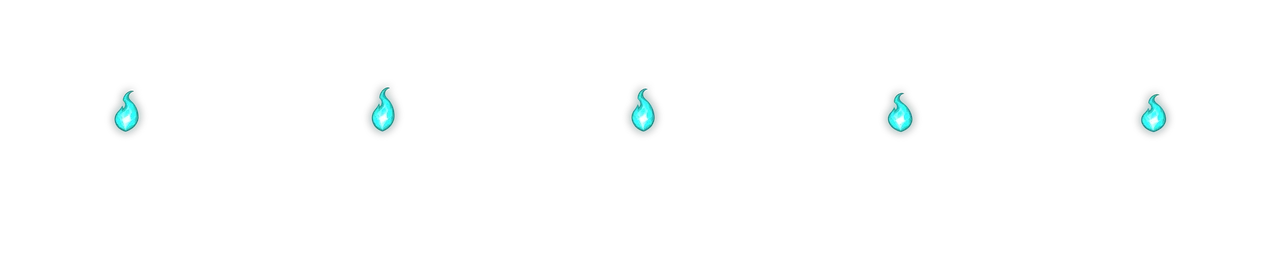
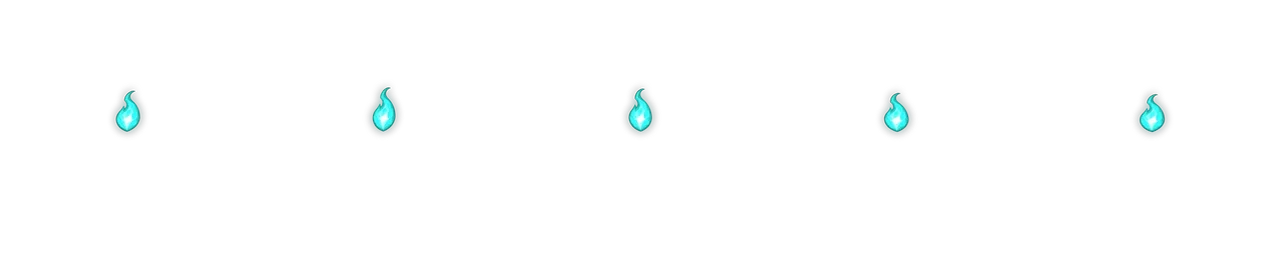
fix(fundador): chama do Cristal Fundador centrada nos 5 quadros (arte por centro de massa + steps(5) no CSS)
Causa raiz do deslocamento: steps(4, jump-none) numa folha de 5 quadros caia em 33%/67% (fracoes de celula).

diff --git a/src/index.css b/src/index.css
@@ -2789,8 +2789,8 @@ span.sm2-potion-icon[data-prato-art] { font-size: 120px; } /* emoji do prato sem
 .sm-decor-brasa { position: absolute; left: 42%; top: 66%; width: 16%; aspect-ratio: 2; border-radius: 50%; background: radial-gradient(closest-side, hsl(176 80% 50% / .5), transparent); opacity: 0; transition: opacity 1.2s ease; }
 .sm-decor-brasa[data-on] { opacity: .55; animation: sm-decor-brasa-pulso 4.5s ease-in-out infinite; }
 @keyframes sm-decor-brasa-pulso { 50% { opacity: .3; } }
-/* Fogo turquesa do Cristal Fundador: folha de N quadros lado a lado sobre a arte; `steps(N-1, jump-none)` mostra os N quadros (0%..100%). Reduzido = quadro 1. */
-.sm-decor-chama { position: absolute; inset: 0; background-repeat: no-repeat; background-position: 0 0; image-rendering: pixelated; animation: sm-decor-chama-quadros .7s steps(4, jump-none) infinite; }
+/* Fogo turquesa do Cristal Fundador: folha de N quadros lado a lado sobre a arte; `steps(N, jump-none)` mostra os N quadros em 0%, 25%, 50%, 75%, 100% (com N-1 os quadros caíam em frações de célula e a chama saltava para os lados; corrigido 24/11/2026). Reduzido = quadro 1. */
+.sm-decor-chama { position: absolute; inset: 0; background-repeat: no-repeat; background-position: 0 0; image-rendering: pixelated; animation: sm-decor-chama-quadros .7s steps(5, jump-none) infinite; }
 @keyframes sm-decor-chama-quadros { to { background-position: 100% 0; } }
 /* Tela do fliperama: 41×40 px da arte em (70,44). */
 .sm-decor-tela { position: absolute; left: 41.7%; top: 26.2%; width: 24.4%; height: 23.8%; image-rendering: pixelated; border-radius: 2px; opacity: .92; }

diff --git a/src/components/PetStageDecor.cristalFundador.render.test.tsx b/src/components/PetStageDecor.cristalFundador.render.test.tsx
@@ -61,7 +61,8 @@ describe('Cristal Fundador', () => {
     expect(f.getAttribute('data-quadros')).toBe('5');
     expect(f.style.backgroundSize).toBe('500% 100%');
     const css = readFileSync('src/index.css', 'utf8');
-    expect(css).toMatch(/\.sm-decor-chama\s*\{[^}]*steps\(4, jump-none\)/);
+    expect(css).toMatch(/\.sm-decor-chama\s*\{[^}]*steps\(5, jump-none\)/);
+    // posições 0/25/50/75/100%: cada quadro inteiro (com steps(4) caíam em 33%/67% e a chama saltava para os lados)
     const reduzido = css.slice(css.indexOf('@media (prefers-reduced-motion: reduce)', css.indexOf('MOVIMENTO REDUZIDO')));
     expect(reduzido.slice(0, reduzido.indexOf('}\n}'))).toMatch(/\.sm-decor-chama,[\s\S]*animation: none !important/);
   });

diff --git a/docs/REGISTRO-DE-DECISOES.md b/docs/REGISTRO-DE-DECISOES.md
@@ -6660,7 +6660,7 @@ Decisão (cinco pedidos literais do dono, um commit por item):
 
 - **Decisão (dono):** `DecorLuzModo` ganha `'sempre'`: `decorLuzAcesa` devolve `true` acordado ou dormindo, a peça nunca escurece (sem o filtro de apagado) e, com o pet dormindo, é redesenhada na camada ACIMA do véu da noite (`PetStageBrilhos`) para o véu de 55% não a apagar. `luz` e `noite` não mudam.
 - **Item:** `furn-cristal-fundador` (Cristal Fundador / Founder Crystal), `kind: 'furniture'`, `fits: 'any'`, espaço do chão `floor-right`, NUNCA à venda (lista `CONCESSOES_ITEMS`, fora de `SHOP_ITEMS`/`TOURNAMENT_ITEMS`, sem preço). O chunk lazy `cristalFundador.ts` o injeta; a entrada só ganha a linha de `DECOR_LUZ`.
-- **Fogo:** 2ª camada em folha de 5 quadros (`DECOR_CHAMA`), `background-position` em `steps(4, jump-none)` (N-1 passos = N quadros), ~140 ms/quadro; em `prefers-reduced-motion` fica parado no quadro 1.
+- **Fogo:** 2ª camada em folha de 5 quadros (`DECOR_CHAMA`), `background-position` em `steps(5, jump-none)` (N passos com `jump-none` = N quadros em 0/25/50/75/100%; o `steps(4)` original mostrava frações de célula e a chama saltava para os lados, corrigido em 24/11/2026), ~140 ms/quadro; em `prefers-reduced-motion` fica parado no quadro 1.
 - **Não feito:** a entrega por progressão (Fundo/Moldura/Retrato/Cristal) aguarda decisões do dono. Sem campo nem chave nova no save; item desconhecido segue sem quebrar save antigo.
 - **Rollback:** reverter o commit; um save com o id equipado cai no emoji/some do palco, sem erro.
 
@@ -6828,6 +6828,7 @@ Estado da `origin/main` ao reconciliar: o último § é o **§511** (Cristal Fun
 - **Alternativa que perdeu:** um popup por prêmio para a conta existente (4 toques seguidos); descartada pelo pedido do dono de UM popup. **Falsifica:** recarregar repetindo o popup, ou o servidor apagando `fundadorAvisados` de um cliente antigo (`FundadorAvisoModal.render.test.tsx`, `fundador.parity.test.js`).
 - **Correção 24/11/2026 (hotfix: o popup abria mas ✕ e Fechar não respondiam):** o popup ia ao `<body>` (`sobreTelas`) por cima de outro modal da fila; o focus-trap (`useDialogA11y`) do modal de baixo inertiza os irmãos do `<body>`, então o toque morria. Agora o aviso é o item `fundador` da fila central (`presentationQueue`, depois de `checkIn`; um modal por vez, fora do teto de 3) e sem `sobreTelas`. Régua: `FundadorAvisoModal.fecha.render.test.tsx`.
 - **Decisão do dono 24/11/2026: UM MODAL PARA CADA PRÊMIO** (substitui o "UM popup com os 4" acima): sequência Fundo → Moldura → Retrato → Cristal, só os pendentes, o próximo só depois de fechar o anterior; arte grande, nome PT/EN, "Ganho por constância: N dias." (N = marco do prêmio) e Equipar (fundo/moldura/retrato) / Fechar. A sequência é UM item da fila (`fundador`, fora do teto de 3) que consome os pendentes um a um; cada fechamento grava só o id da tela em `fundadorAvisados`.
+- **Correção 24/11/2026 (chama do Cristal descentrada):** a chama aparecia deslocada para os lados do cristal. Causa raiz: o CSS usava `steps(4, jump-none)` numa folha de 5 quadros (posições 0/33/67/100% = frações de célula); agora `steps(5, jump-none)`. A arte também foi realinhada ao centro por centro de massa (sem redesenhar): `decor-fx/furn-cristal-fundador-chama.png` (840×168) e `site-beta/public/premios/cristal-chama.webp` (1280×256); `ui/cristal-chama.webp` (imagem única do topo) não é tira e não mudou.
 - **Rollback:** reverter o commit; código antigo ignora o campo.
 
 ## §512 — Essência da jornada: 20 elementos nos 6 cenários, sorteio uniforme (23/11/2026, proposta aprovada pelo dono (A, sorteio uniforme); número provisório, conferir colisão no merge)

diff --git a/docs/INVENTARIO-ASSETS.md b/docs/INVENTARIO-ASSETS.md
@@ -110,7 +110,7 @@ Fase 1 (`design/INVENTARIO-WIREFRAMES.md`).
 |---|---|---|---|
 | `decor/` | 33 (14 delas refeitas em 08/09 — `decor-v2`) | `decorArt.ts` (id do item) | Loja (`CenariosMobilias`), Home (palco) |
 | `backgrounds/founder-fundo.webp` (1200×648, ~15 KB) + `backgrounds/thumbs/founder-fundo.png` (96×52), `soulmon/molduras/founder-moldura.png` (192², abertura 96, alfa binário, ~10 KB) e `avatares/founder-retrato.webp` (128², ~2 KB) | 3 · Conjunto Fundador (23/11/2026, REGISTRO §509); fonte aprovada em `E:/Soulmon-assets/p6-premios-beta/` (`final-fundo-1024x2048` — recorte horizontal da faixa do chão/parede, escala 1200×648, chão ~74% —, `final-moldura-1024` — reescalada para a abertura de 96 px, alfa binarizado e miolo limpo —, `final-retrato-1024`) | `fundadorCatalogo.ts` (fundo, moldura), `catalogo.json` + `_avatares.js` (retrato, grupo `founder`) | Home (cenário), perfil (moldura e foto), só para quem ganhou |
-| `decor/furn-cristal-fundador.png` + `decor-fx/furn-cristal-fundador-chama.png` | 2 · 168² (base acesa) e folha 5×168 (5 quadros, ~140 ms/quadro); fonte em `E:\Soulmon-assets\p6-premios-beta\` (`final-item-base-aceso-168`, `final-item-chama-folha-5x168`; as versões 512 não entram: o app desenha na caixa do slot) — arte final APROVADA pelo dono e instalada em 23/11/2026 | `cristalFundador.ts` → `decorArt.ts` (`DECOR_ART`, `DECOR_CHAMA`) | Home (palco), item de concessão (nunca à venda) |
+| `decor/furn-cristal-fundador.png` + `decor-fx/furn-cristal-fundador-chama.png` | 2 · 168² (base acesa) e folha 5×168 (5 quadros, ~140 ms/quadro); fonte em `E:\Soulmon-assets\p6-premios-beta\` (`final-item-base-aceso-168`, `final-item-chama-folha-5x168`; as versões 512 não entram: o app desenha na caixa do slot) — arte final APROVADA pelo dono e instalada em 23/11/2026; chama realinhada ao centro por centro de massa em 24/11/2026 (fonte `E:\Soulmon-assets\p6-premios-beta\corrigido\`) | `cristalFundador.ts` → `decorArt.ts` (`DECOR_ART`, `DECOR_CHAMA`) | Home (palco), item de concessão (nunca à venda) |
 | `soulmon/nest-base.png` (+cushion, basket) | 3 · 444×249 | `nestArt` / `PetStageDecor` | Home (palco) |
 | `soulmon/items/` | 13 · 96² — 8 comidas + 3 chips + coração + glitchtama | `itemArt.ts` (**emoji**) | Home (`ItensPastinha`, `AlimentarFolha`, `ItensUsar`) |
 | `soulmon/dreams/` | 30 · 96² | `dreamArt.ts` (`Dream.id`) | Rituais (`SonhoComCena`), Pet (`DexCompleto/Parcial`) |
